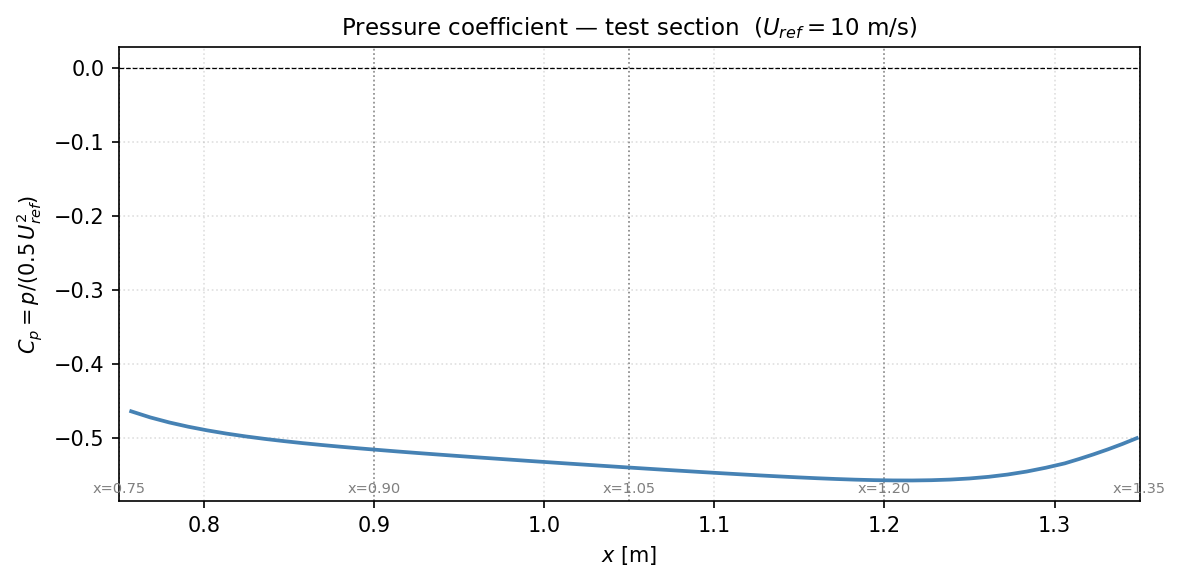
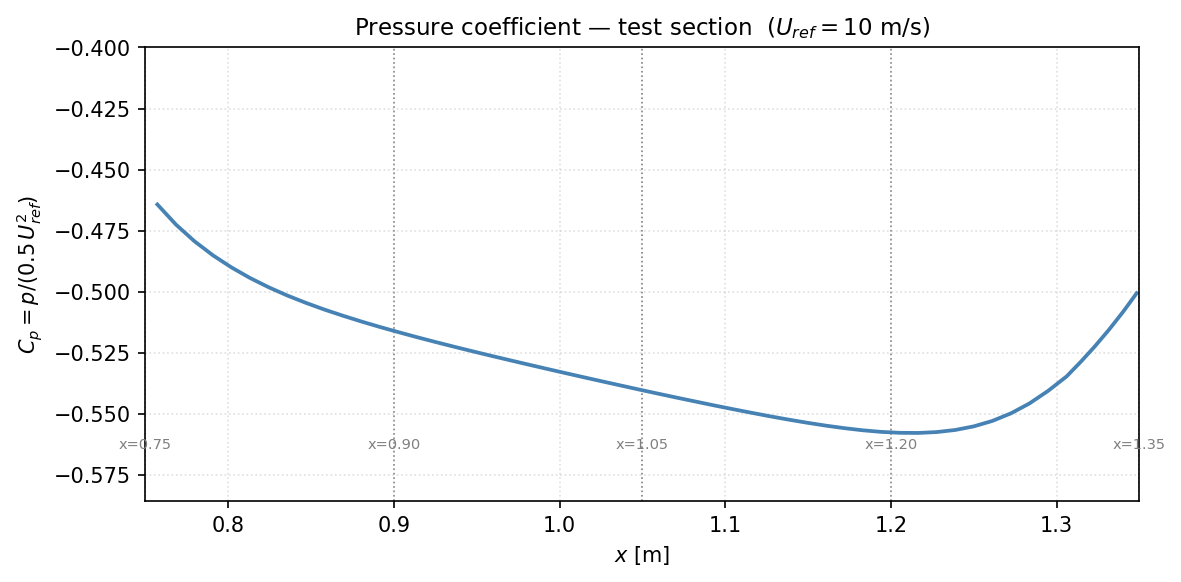
TUNNEL PHYSICS

diff --git a/content/projects/windtunnel/Wind Tunnel/index.md b/content/projects/windtunnel/Wind Tunnel/index.md
@@ -22,11 +22,28 @@ The velocity profiles will let me understand how boundary layer grown from the t
 I am only aware of the corrections they do for automotive tunnels which are oftentimes an open-jet tunnel. My tunnel will be a closed-jet tunnel so the blockage will have a greater influence on the model since the dynamic pressure will change more as air accelerates if the blockage is big enough. I will have to read up on how aerospace wind tunnels are operated since my knowledge is a bit limited. 
 
 ### Pressure Distribution
-
 ![](Cp_streamwise.png)
+The figure above shows how pressure changes along the wind tunnel. It is what you expect, pressure decreases quadratically as the velocity increases inside of the nozzle. Pressure also decreases inside of the tunnel due to either friction and in some way you can think that test section is contracting as well since boundary layer thickness grows downstream. Diffuser helps with pressure recovery as you can see, but outlet pressure will always be same as atmospheric pressure. Diffuser just speeds things a bit more.
+
 ![](Cp_test_section.png)
+This is the interesting plot. Imagine there is an object located between x = 0.9 m and x = 1.0 m. Because the pressure is not constant, there will be additional forces acting on the test object due to axial pressure distribution inside of the tunnel. In this case there will be some thrust and pitching moment will also be affected. There is a correction for that.
 ![](dCp_dx_test_section.png)
+Buoyancy correction is applied using the axial pressure gradient as shown above. I'd recommend reading any wind tunnel commissioning papers by Jacobs, it explains it quite well in detail. 
+Buoyancy correction in nutshell is basically this: V = object volume
+$$
+F_{buoyancy} = -V\cdot \frac{dp}{dx}
+$$
+
+$$
+C_{D,corr} = C_{D,measured} - C_{D,buoyancy}
+$$
+### Boundary Layer
 ![](Ux_profiles.png)
+The figure above shows velocity profiles inside of the test section at various locations. If I am testing a sphere or anything suspended in air it should not be affected, but any test involving ground effect will have to have boundary layer thickness in mind. I've seen half models of airplanes being tested before and they just place the model on the ground. I think I will mount a ground plane 10 mm above the tunnel so minimize boundary layer affecting my test results. 
+
+This is the easy part honestly. I am an aerodynamics engineer, I know fluid dynamics and various tools to do fluid dynamics. I don't even know how to get electronics and manufacturing started. 
+
+
 
 
 

diff --git a/content/projects/windtunnel/_index.md b/content/projects/windtunnel/_index.md
@@ -16,7 +16,7 @@ My happy place as an aerodynamicist is the wind tunnel. So far I have been to:
 + WindShear in North Carolina, USA
 + ARC Scale Wind Tunnel in Indy 
 
-I have been meaning to build one for myself to test small objects and calibrate different measurement device I might create in the future for a very long time. I would like to be measure pressure, force and do some flow visualization inside of the tunnel. 
+I have been meaning to build one for myself to test small objects and calibrate different measurement device I might create in the future for a very long time. I would like to measure pressure, force and do some flow visualization inside of the tunnel. 
 
 There are three different things that you must consider:
 + Design
